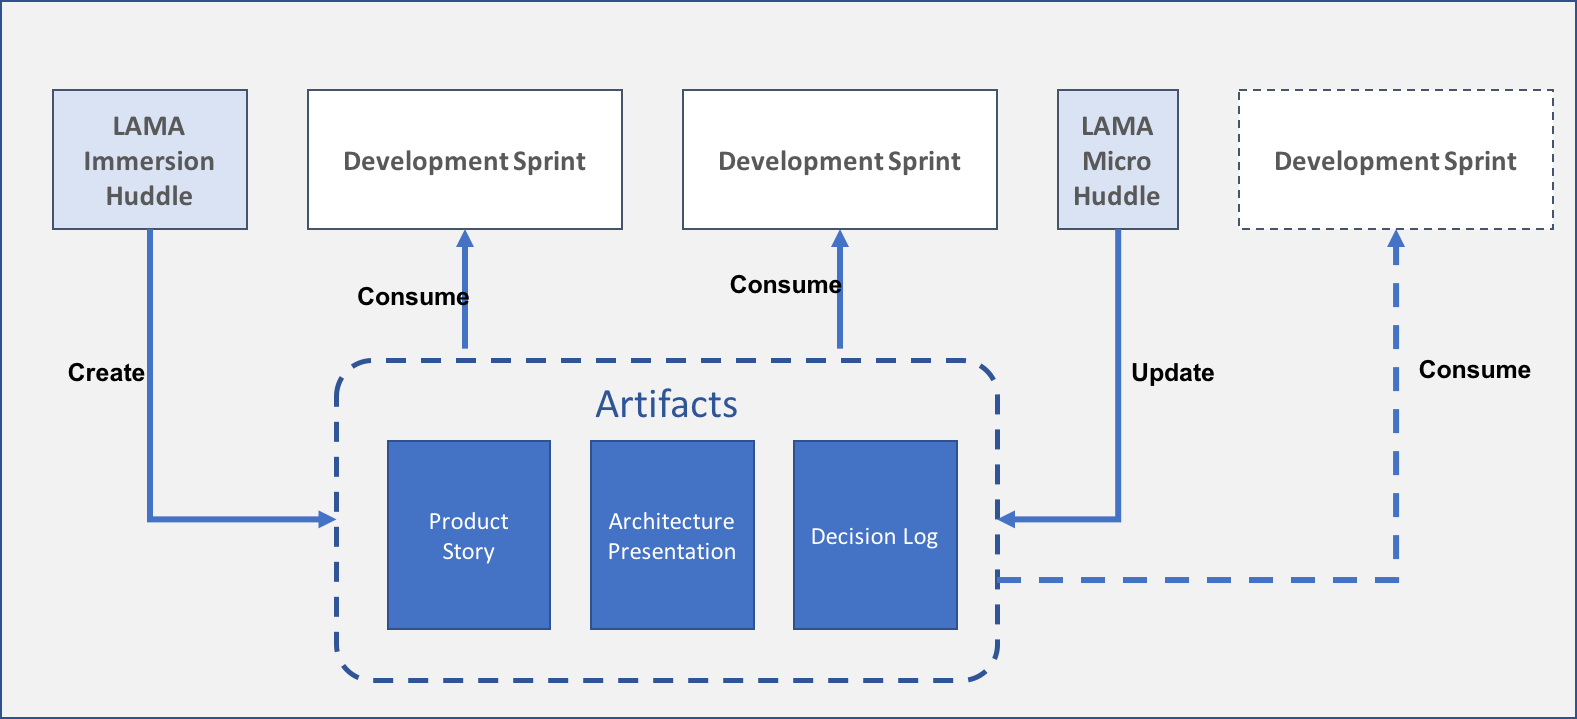
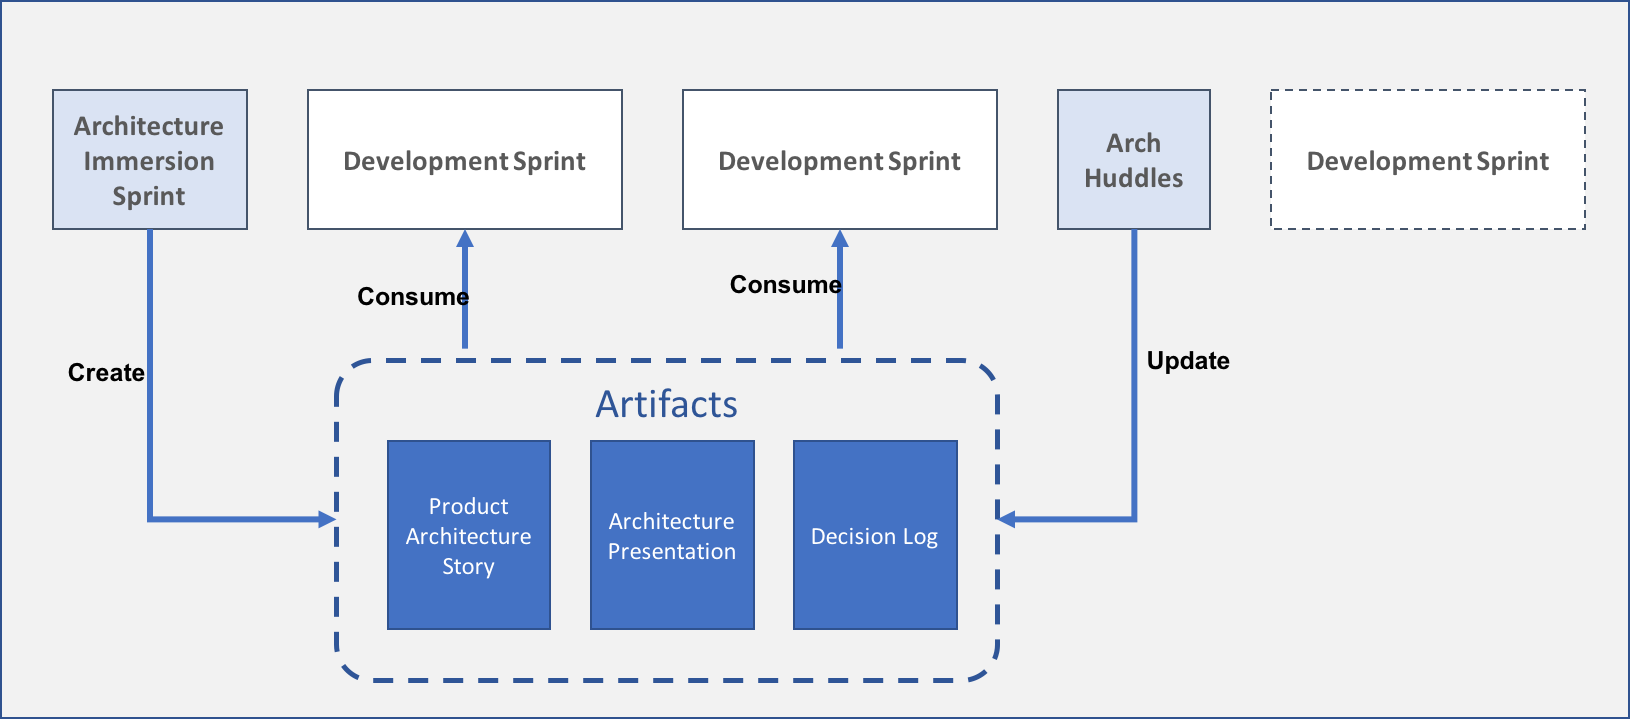
Small Changes

diff --git a/_site/lama/index.html b/_site/lama/index.html
@@ -111,34 +111,31 @@
   <li><strong>Collaborate on Architecture:</strong> Architecture is a collaborative process. There is no room place for Ivory tower architectures in modern software development.</li>
   <li><strong>Think Systemically:</strong> Think and establish clear principles at a system level, act locally at the Sprint team level.</li>
   <li><strong>Preserve Optionality:</strong> Preserve optionality on some design decisions till they start impacting deliverables, but make obvious design decisions early to reduce ambiguity and keep the decision space lean and focused.</li>
-  <li><strong>Keep Architecture Dynamic:</strong> Architecture should be done iteratively (No big Upfront Design) and should be weaved into the execution. Architecture must be flexible to be updated as the team learns through the project.</li>
+  <li><strong>Keep Architecture Flexible:</strong> Architecture should be done iteratively (No big Upfront Design) and should be weaved into the execution. Architecture must be flexible to be updated as the team learns through the project.</li>
   <li><strong>Log Architecture Decisions:</strong> Keep a catalog of architecture decisions as a fluid list. They will act as a guideline with the Agile teams. The best log is version controlled similar to code.</li>
   <li><strong>Create an Architecture Story:</strong> Have an approach to effectively communicate the architecture to wider audience. An architecture not communicated is an architecture that is not implemented as intended.</li>
   <li><strong>Encourage Architecture Huddles:</strong> Establish a practice of periodic architecture huddles, to update assumptions, confirm/re-confirm decisions, and ensure alignment between all parties.</li>
 </ol>
 
 <h2 id="how-is-the-lama-initiated">How is the LAMA initiated?</h2>
-<p>LAMA is initiated with a 5 day Immersion Huddle with clear objectives and deliverables for each day and a deliverable at the end of the 5 day effort. The immersion huddle is intentionally set across multiple days to give participants plenty to time to reflect and think independently and with in teams. For smaller projects, part of the day can be used, but I would recommend to keep the process to 5 days.</p>
-
-<p>The time boxing of this approach has been inspired by the Design Sprint approach by Google Ventures <a href="http://www.gv.com/sprint/">Link</a></p>
+<p>LAMA is initiated with a 5 day Architecture Immersion Sprint (AIS) with clear objectives and deliverables for each day and a deliverable at the end of the 5 day effort. The AIS is intentionally set across multiple days to give participants plenty to time to reflect and think independently and with in teams. For smaller projects, part of the day can be used, but I would recommend to keep the process to 5 days.</p>
 
 <p><img src="/assets/images/Lamaimmersion.png" alt="Immersion Process" /></p>
 
-<p>As the output of the LAMA immersion Huddle, the team should have a comprehensive view of the architecture represented by multiple view points.</p>
+<p>As the output of the AIS, the team should have a comprehensive view of the architecture represented by multiple view points.</p>
 
 <p><img src="/assets/images/ArchitectureViews.png" alt="Architecture States" /></p>
-
-<h2 id="lama-immersion-huddle-team">LAMA Immersion Huddle team</h2>
-<p>The immersion huddle team consists if the following team members for a development org with multiple sprint teams and a product architect or senior developer who acts as a lead across teams. Depending upon the structure of the organization this can be adjusted for a single sprint team to include all members of the team.</p>
+<h2 id="lama--team">LAMA  team</h2>
+<p>The architecture immersion sprint team consists if the following team members for a development org with multiple sprint teams and a product architect or senior developer who acts as a lead across teams. Depending upon the structure of the organization this can be adjusted for a single sprint team to include all members of the team.</p>
 
 <ol>
   <li>SCRUM Master/s</li>
   <li>Product Owner/s</li>
   <li>Product Architect</li>
-  <li>Technical representative from each Sprint team. For small teams, all team members may be invited.</li>
+  <li>Technical representative from each development sprint team. For small teams, all team members may be invited.</li>
 </ol>
 
-<h2 id="lama-immersion-huddle-process">LAMA Immersion Huddle Process</h2>
+<h2 id="lama-architecture-immersion-sprint">LAMA Architecture Immersion Sprint</h2>
 <p>The process is done across 5 days. In preparation for this you need the following:</p>
 
 <ol>
@@ -155,7 +152,7 @@
 <p><strong>Objective:</strong> Achieve functional clarity of the system across all team members</p>
 
 <ul>
-  <li>Creating the product vision statement</li>
+  <li>Creating or Articulating (if it has already been created) the product vision statement</li>
   <li>Define all the user personas of the system</li>
   <li>Create a functional decomposition of the system into groups of functions which act as a pre-cursor to the user stories. The functions are broken down to the epic level</li>
   <li>Understand and group and re-group functions till a sufficiently optimal grouping of functions is achieved</li>
@@ -199,7 +196,7 @@
 <p><strong>Output:</strong> Conceptual architecture view of the system in the form of a widely shareable format (PPT, Keynote) that can be used in presentations and communications. This document is added to the shared drive.</p>
 
 <h3 id="wednesday---technical-immersion">Wednesday - Technical Immersion</h3>
-<p>The 3rd day is all about defining the technical Architecture of the system. This is the core of any technical system hence the LAMA Heart which makes all the plumbing work. This is where the technical members of the team should take the lead and start making basic decisions about the technical stack that can meet the functional and non-functional requirements and meet the needs of the project.</p>
+<p>The 3rd day is all about defining the technical Architecture of the system. This is where the technical members of the team should take the lead and start making basic decisions about the technical stack that can meet the functional and non-functional requirements and meet the needs of the project.</p>
 
 <p><strong>Objective:</strong> Achieve technical clarity of the system across all team members</p>
 
@@ -295,13 +292,13 @@
 
 <p>The Second half of the day should be reserved for the pre-scheduled presentation. All questions and answers should be scribed into a Q&amp;A Section of the Product Story for later use and clarity. The team should feel accomplished after an exhaustive 5 day process and should feel a sense of complete expertise of the system and the approach used to build the system.</p>
 
-<h2 id="after-the-immersion-huddle">After the Immersion Huddle</h2>
+<h2 id="after-the-architecture-immersion-sprint">After the Architecture Immersion Sprint</h2>
 
 <p><img src="/assets/images/lamaprocess.png" alt="Image Placeholder" /></p>
 
-<p>The Architecture must continue to be developed and refined through the execution process through a series of one day LAMA Micro Huddles. These are one day events where a specific area of architecture is explore and disambiguated further. the LAMA Micro Huddles must be spread across the execution of the Sprint. A good example for such a huddle is for the Data or Domain model review once the teams have put together their structure. I recommend a micro huddle initially once in 2 Sprints and subsequently once every 3 or 4 sprints.</p>
+<p>The Architecture must continue to be developed and refined through the execution process through a series of one day LAMA Huddles. These are one day events where a specific area of architecture is explored and disambiguated further. the LAMA Huddles must be spread across the execution of the Sprint. A good example for such a huddle is for the Data or Domain model review once the teams have put together their domain models. I recommend a huddle initially once in 2 Sprints and subsequently once every 3 or 4 sprints.</p>
 
-<p>The team will typically navigate between LAMA huddles and sprints as shown below</p>
+<p>The team will typically navigate between LAMA huddles and development sprints as shown below</p>
 
 <p><img src="/assets/images/lamastates.png" alt="LAMA States" /></p>
 
@@ -309,10 +306,21 @@
 <p>I will conclude with the benefits of the LAMA Process for the organization</p>
 
 <ol>
-  <li>The overall team will have a mastery of the project, concepts and architecture in an extremely short amount of time in a very structured manner which will lead to better decisions, lower waste and faster development</li>
-  <li>The process will leave all the traditional flexibility of the agile model in place with the LAMA overlay adding a layer of architecture competency over the execution</li>
-  <li>The process symbiotically fits into the agile processes while at the same time de-risking the project with a small amount of upfront strategy and systems thinking.</li>
+  <li>Diffusion of Knowledge through upfront collaborative thinking. This leads to better decisions, less waste and faster delivery of value.</li>
+  <li>Zero disruption to agile. This process works seamlessly with agile and weaves to existing agile practices.</li>
+  <li>The process de-risks the agile project further with a small amount of upfront strategy and systems thinking and reduces future technical debt</li>
 </ol>
+
+<h2 id="acknowledgements">Acknowledgements</h2>
+<ul>
+  <li>This concept has been inspired by the Design Sprint approach by Google Ventures <a href="http://www.gv.com/sprint/">Link</a></li>
+  <li>Integrating architecture into Agile has been well documented in couple of practices - SAFE and DAD. What I am proposing a lighter weight approach that may be suitable/sufficient in many cases
+    <ul>
+      <li><a href="http://www.scaledagileframework.com">SAFE</a></li>
+      <li><a href="http://www.disciplinedagiledelivery.com">DAD</a></li>
+    </ul>
+  </li>
+</ul>
 
       </div>
     </main>

diff --git a/architecture/arch_sprint.md b/architecture/arch_sprint.md
@@ -18,25 +18,22 @@ I have been lately doing some thinking on a better approach for integration of h
 1. **Encourage Architecture Huddles:** Establish a practice of periodic architecture huddles, to update assumptions, confirm/re-confirm decisions, and ensure alignment between all parties.
 
 ## How is the LAMA initiated?
-LAMA is initiated with a 5 day Immersion Huddle with clear objectives and deliverables for each day and a deliverable at the end of the 5 day effort. The immersion huddle is intentionally set across multiple days to give participants plenty to time to reflect and think independently and with in teams. For smaller projects, part of the day can be used, but I would recommend to keep the process to 5 days.  
-
-The time boxing of this approach has been inspired by the Design Sprint approach by Google Ventures [Link](http://www.gv.com/sprint/)
+LAMA is initiated with a 5 day Architecture Immersion Sprint (AIS) with clear objectives and deliverables for each day and a deliverable at the end of the 5 day effort. The AIS is intentionally set across multiple days to give participants plenty to time to reflect and think independently and with in teams. For smaller projects, part of the day can be used, but I would recommend to keep the process to 5 days.  
 
 ![Immersion Process](/assets/images/Lamaimmersion.png)
 
-As the output of the LAMA immersion Huddle, the team should have a comprehensive view of the architecture represented by multiple view points.
+As the output of the AIS, the team should have a comprehensive view of the architecture represented by multiple view points.
 
 ![Architecture States](/assets/images/ArchitectureViews.png)
-
-## LAMA Immersion Huddle team
-The immersion huddle team consists if the following team members for a development org with multiple sprint teams and a product architect or senior developer who acts as a lead across teams. Depending upon the structure of the organization this can be adjusted for a single sprint team to include all members of the team.
+## LAMA  team
+The architecture immersion sprint team consists if the following team members for a development org with multiple sprint teams and a product architect or senior developer who acts as a lead across teams. Depending upon the structure of the organization this can be adjusted for a single sprint team to include all members of the team.
 
 1. SCRUM Master/s
 1. Product Owner/s
 1. Product Architect
-1. Technical representative from each Sprint team. For small teams, all team members may be invited.
+1. Technical representative from each development sprint team. For small teams, all team members may be invited.
 
-## LAMA Immersion Huddle Process
+## LAMA Architecture Immersion Sprint
 The process is done across 5 days. In preparation for this you need the following:
 
 1. A Conference room with plenty of whiteboard space and space for Sticky notes.
@@ -147,13 +144,13 @@ First half of the day should be focused on creating a presentation of the archit
 
 The Second half of the day should be reserved for the pre-scheduled presentation. All questions and answers should be scribed into a Q&A Section of the Product Story for later use and clarity. The team should feel accomplished after an exhaustive 5 day process and should feel a sense of complete expertise of the system and the approach used to build the system.
 
-## After the Immersion Huddle
+## After the Architecture Immersion Sprint
 
 ![Image Placeholder](/assets/images/lamaprocess.png)
 
-The Architecture must continue to be developed and refined through the execution process through a series of one day LAMA Micro Huddles. These are one day events where a specific area of architecture is explored and disambiguated further. the LAMA Micro Huddles must be spread across the execution of the Sprint. A good example for such a huddle is for the Data or Domain model review once the teams have put together their domain models. I recommend a micro huddle initially once in 2 Sprints and subsequently once every 3 or 4 sprints.
+The Architecture must continue to be developed and refined through the execution process through a series of one day LAMA Huddles. These are one day events where a specific area of architecture is explored and disambiguated further. the LAMA Huddles must be spread across the execution of the Sprint. A good example for such a huddle is for the Data or Domain model review once the teams have put together their domain models. I recommend a huddle initially once in 2 Sprints and subsequently once every 3 or 4 sprints.
 
-The team will typically navigate between LAMA huddles and sprints as shown below
+The team will typically navigate between LAMA huddles and development sprints as shown below
 
 ![LAMA States](/assets/images/lamastates.png)
 
@@ -163,3 +160,9 @@ I will conclude with the benefits of the LAMA Process for the organization
 1. Diffusion of Knowledge through upfront collaborative thinking. This leads to better decisions, less waste and faster delivery of value.
 2. Zero disruption to agile. This process works seamlessly with agile and weaves to existing agile practices.
 3. The process de-risks the agile project further with a small amount of upfront strategy and systems thinking and reduces future technical debt
+
+## Acknowledgements
+* This concept has been inspired by the Design Sprint approach by Google Ventures [Link](http://www.gv.com/sprint/)
+* Integrating architecture into Agile has been well documented in couple of practices - SAFE and DAD. What I am proposing a lighter weight approach that may be suitable/sufficient in many cases
+  * [SAFE](http://www.scaledagileframework.com)
+  * [DAD](http://www.disciplinedagiledelivery.com)
